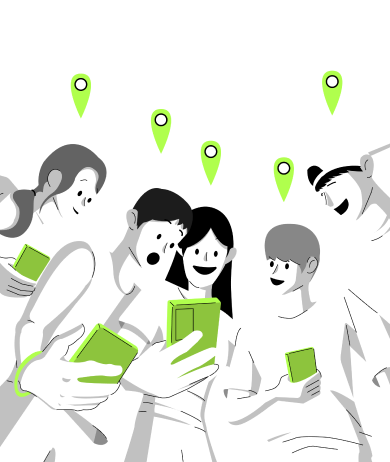
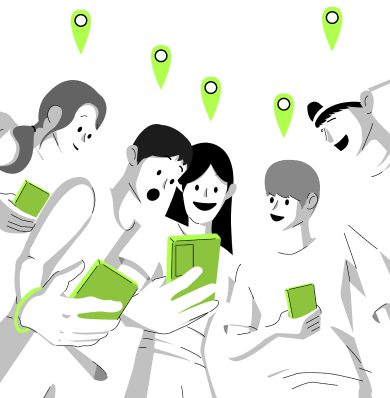
refactor : 온보딩 페이지 수정
- 이미지 변경 (공백 제거)
- page 배치 코드 변경
- container 추가 생성 -> text & image 재배치

diff --git a/app/onboarding.tsx b/app/onboarding.tsx
@@ -7,7 +7,6 @@ import Colors from '@/constants/Colors';
 import Styles from '@/constants/Styles';
 import Sizes from '@/constants/Sizes';
 import getSize from '@/scripts/getSize';
-import Runwith from '@/components/Runwith';
 import { LoginButton, SignUpButton } from '@/components/Button';
 
 // navigation
@@ -15,147 +14,20 @@ import { LoginScreenNavigationProp } from '@/scripts/navigation';
 
 const { width, height } = Dimensions.get('window');
 
-const OnboardingScreen: React.FC = () => {
-  const navigation = useNavigation<LoginScreenNavigationProp>();
-  const [currentPage, setCurrentPage] = useState(0);
-
-  const handleOnboardingFinish = async () => {
-    await AsyncStorage.setItem('hasSeenOnboarding', 'true');
-  };
-
-  const handleScroll = (event: any) => {
-    const scrollPosition = event.nativeEvent.contentOffset.x;
-    const currentPageIndex = Math.round(scrollPosition / width);
-    setCurrentPage(currentPageIndex);
-  };
-
-  return (
-    <View style={Styles.container}>
-      <ScrollView
-        horizontal
-        pagingEnabled
-        showsHorizontalScrollIndicator={false}
-        onScroll={handleScroll}
-        scrollEventThrottle={16}
-      >
-        {/* 온보딩 1번째 페이지 */}
-        <View style={styles.page}>
-          <Image
-            source={require('@/assets/images/onboarding1.png')}
-            style={styles.image1}
-          />
-          <View style={styles.textContainer}>
-            <Text style={styles.title}>같이 그리는 코스, Runwith</Text>
-            <Text style={styles.subtitle}>
-              직접 뛰며 나만의 러닝 코스를 그려보세요.{"\n"}
-              내가 그린 코스를 저장하고 언제든 뛰어보세요.
-            </Text>
-          </View>
-        </View>
-
-        {/* 온보딩 2번째 페이지 */}
-        <View style={styles.page}>
-          <Image
-            source={require('@/assets/images/onboarding2.png')}
-            style={styles.image2}
-          />
-          <View style={styles.textContainer}>
-            <Text style={styles.title}>나만의 코스를 공유하고 싶다면</Text>
-            <Text style={styles.subtitle}>
-              숨겨진 근처 러닝 코스를 공유해보세요.{"\n"}
-              다른 러너들의 코스 정보도 알 수 있어요.
-            </Text>
-          </View>
-        </View>
-
-        {/* 온보딩 3번째 페이지 */}
-        <View style={styles.page}>
-          <Image
-            source={require('@/assets/images/onboarding3.png')}
-            style={styles.image3}
-          />
-          <View style={styles.textContainer}>
-            <Text style={styles.title}>크루와 더욱 즐겁게</Text>
-            <Text style={styles.subtitle}>
-              러닝 크루와의 소통으로 동기부여를 받아보세요.{"\n"}
-              크루 멤버와 즐거운 비대면 러닝도 즐길 수 있어요.
-            </Text>
-          </View>
-        </View>
-
-        {/* 온보딩 마지막 페이지 */}
-        <View style={styles.page}>
-          <View style={styles.finalTextContainer}>
-            <Text style={styles.logo}>RUNWITH</Text>
-            <Text style={styles.text1}>이제 뛰어볼까요?</Text>
-            <Text style={styles.text2}>런윗과 함께 뛰어볼 차례입니다!</Text>
-          </View>
-          <View style={styles.buttonContainer}>
-            <LoginButton
-              onPress={() => {
-                console.log('login button pressed');
-                handleOnboardingFinish();
-                navigation.replace('login');
-              }}
-              style={{ marginBottom: getSize(20) }}
-            />
-            <SignUpButton
-              onPress={() => {
-                console.log('sign up button pressed');
-                handleOnboardingFinish();
-                navigation.replace('home');
-              }}
-              isGary={true}
-            />
-          </View>
-        </View>
-      </ScrollView>
-
-      {/* Dots */}
-      <View style={styles.dotsContainer}>
-        {[0, 1, 2].map((_, index) => (
-          <View
-            key={index}
-            style={[
-              styles.dot,
-              currentPage === index ? styles.activeDot : null,
-              currentPage === 3 ? styles.hiddenDot : null,
-            ]}
-          />
-        ))}
-      </View>
-    </View>
-  );
-};
-
+// styles
 const styles = StyleSheet.create({
   page: {
     width: width,
-    justifyContent: 'center',
     alignItems: 'center',
-    paddingHorizontal: 20,
   },
-  image1: {
+  onboardingContainer: {
+    flex: 1,
     width: width,
     height: height,
-    resizeMode: 'contain',
-    marginTop: getSize(165),
-  },
-  image2: {
-    width: width,
-    height: height,
-    resizeMode: 'contain',
-    marginBottom: getSize(75),
-  },
-  image3: {
-    width: width,
-    height: height,
-    resizeMode: 'contain',
-    marginTop: getSize(177),
+    flexDirection: 'column',
+    top: getSize(128),
   },
   textContainer: {
-    position: 'absolute',
-    top: getSize(128),
     left: getSize(Sizes.formMargin),
     textAlign: 'left',
   },
@@ -170,9 +42,23 @@ const styles = StyleSheet.create({
     color: '#FFFFFF',
     marginTop: Sizes.formMargin,
   },
+  image1: {
+    width: width,
+    resizeMode: 'contain',
+    marginTop: getSize(27),
+  },
+  image2: {
+    width: width,
+    resizeMode: 'contain',
+    marginTop: getSize(16),
+  },
+  image3: {
+    width: width,
+    resizeMode: 'contain',
+    marginTop: getSize(9),
+  },
   finalTextContainer: {
-    position: 'absolute',
-    top: getSize(223),
+    marginTop: getSize(223),
     alignItems: 'center',
     textAlign: 'center',
   },
@@ -197,7 +83,6 @@ const styles = StyleSheet.create({
     position: 'absolute',
     bottom: getSize(107),
     alignItems: 'center',
-
   },
   dotsContainer: {
     flexDirection: 'row',
@@ -219,5 +104,104 @@ const styles = StyleSheet.create({
     opacity: 0,
   },
 });
+
+const onboardingData = [
+  {
+    image: require('@/assets/images/onboarding1.png'),
+    title: '같이 그리는 코스, Runwith',
+    subtitle: '직접 뛰며 나만의 러닝 코스를 그려보세요.\n내가 그린 코스를 저장하고 언제든 뛰어보세요.',
+    imageStyle: styles.image1,
+  },
+  {
+    image: require('@/assets/images/onboarding2.png'),
+    title: '나만의 코스를 공유하고 싶다면',
+    subtitle: '숨겨진 근처 러닝 코스를 공유해보세요.\n다른 러너들의 코스 정보도 알 수 있어요.',
+    imageStyle: styles.image2,
+  },
+  {
+    image: require('@/assets/images/onboarding3.png'),
+    title: '크루와 더욱 즐겁게',
+    subtitle: '러닝 크루와의 소통으로 동기부여를 받아보세요.\n크루 멤버와 즐거운 비대면 러닝도 즐길 수 있어요.',
+    imageStyle: styles.image3,
+  },
+];
+
+const OnboardingScreen: React.FC = () => {
+  const navigation = useNavigation<LoginScreenNavigationProp>();
+  const [currentPage, setCurrentPage] = useState(0);
+
+  const handleOnboardingFinish = async () => {
+    await AsyncStorage.setItem('hasSeenOnboarding', 'true');
+  };
+
+  const handleScroll = (event: any) => {
+    const scrollPosition = event.nativeEvent.contentOffset.x;
+    const currentPageIndex = Math.round(scrollPosition / width);
+    setCurrentPage(currentPageIndex);
+  };
+
+  return (
+    <View style={Styles.container}>
+      <ScrollView
+        horizontal
+        pagingEnabled
+        showsHorizontalScrollIndicator={false}
+        onScroll={handleScroll}
+        scrollEventThrottle={16}
+      >
+        {onboardingData.map((page, index) => (
+          <View key={index} style={styles.page}>
+            <View style={styles.onboardingContainer}>
+              <View style={styles.textContainer}>
+                <Text style={styles.title}>{page.title}</Text>
+                <Text style={styles.subtitle}>{page.subtitle}</Text>
+              </View>
+              <Image source={page.image} style={page.imageStyle} />
+            </View>
+          </View>
+        ))}
+
+        {/* 마지막 페이지 */}
+        <View style={styles.page}>
+          <View style={styles.finalTextContainer}>
+            <Text style={styles.logo}>RUNWITH</Text>
+            <Text style={styles.text1}>이제 뛰어볼까요?</Text>
+            <Text style={styles.text2}>런윗과 함께 뛰어볼 차례입니다!</Text>
+          </View>
+          <View style={styles.buttonContainer}>
+            <LoginButton
+              onPress={() => {
+                handleOnboardingFinish();
+                navigation.replace('login');
+              }}
+              style={{ marginBottom: getSize(20) }}
+            />
+            <SignUpButton
+              onPress={() => {
+                handleOnboardingFinish();
+                navigation.replace('home');
+              }}
+              isGary={true}
+            />
+          </View>
+        </View>
+      </ScrollView>
+
+      {/* Dots */}
+      <View style={styles.dotsContainer}>
+        {onboardingData.map((_, index) => (
+          <View
+            key={index}
+            style={[
+              styles.dot,
+              currentPage === index ? styles.activeDot : null,
+              currentPage === onboardingData.length ? styles.hiddenDot : null,
+            ]}
+          />
+        ))}
+      </View>
+    </View>
+  );
+};
 
 export default OnboardingScreen;
